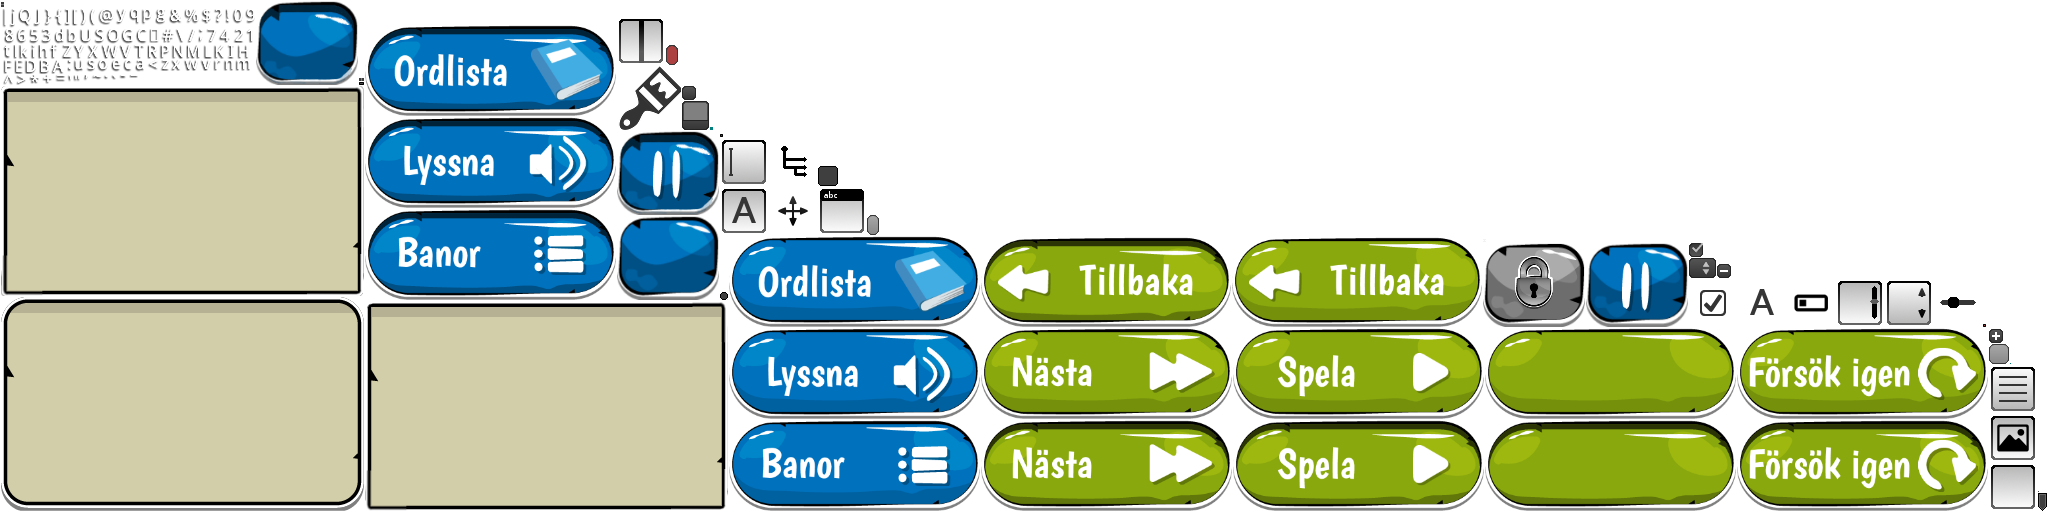
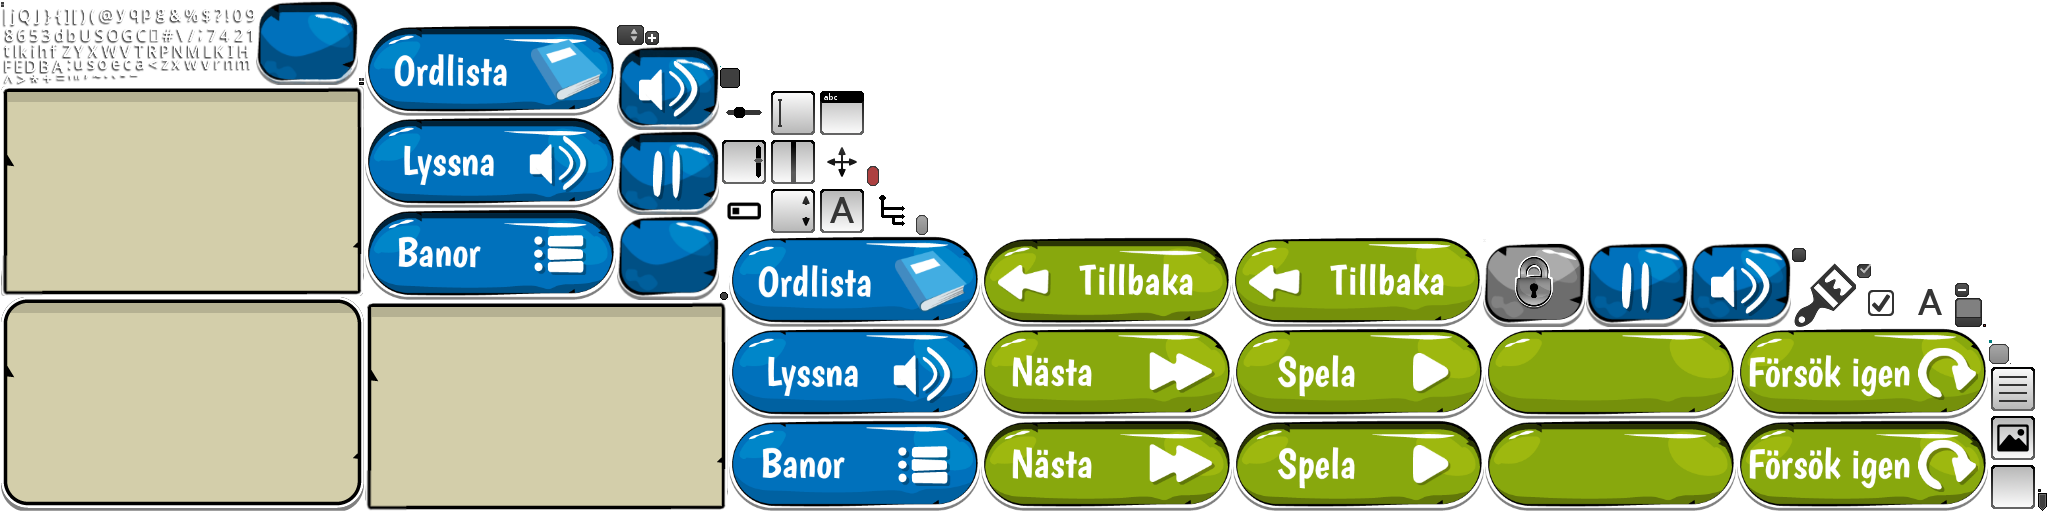
Added new sound buttons to quiz

Changed region(s): [[0.2812, 0.0312, 0.4688, 0.4688], [0.8125, 0.4688, 0.9688, 0.6562]]

diff --git a/core/src/com/teamturtle/infinityrun/stages/QuizStage.java b/core/src/com/teamturtle/infinityrun/stages/QuizStage.java
@@ -4,6 +4,7 @@ import com.badlogic.gdx.Gdx;
 import com.badlogic.gdx.scenes.scene2d.Actor;
 import com.badlogic.gdx.scenes.scene2d.Stage;
 import com.badlogic.gdx.scenes.scene2d.ui.Image;
+import com.badlogic.gdx.scenes.scene2d.ui.ImageButton;
 import com.badlogic.gdx.scenes.scene2d.ui.Label;
 import com.badlogic.gdx.scenes.scene2d.ui.Skin;
 import com.badlogic.gdx.scenes.scene2d.ui.Table;
@@ -91,7 +92,7 @@ public class QuizStage extends Stage {
         while (guesses.size() > 0) {
             int index = random.nextInt((guesses.size() - 1) + 1);
 
-            TextButton button = new TextButton(guesses.get(index).getText() + "?", skin);
+            TextButton button = new TextButton(guesses.get(index).getText() + "?", skin, "text_button");
             final Word word = guesses.get(index);
             button.pad(TEXT_BUTTON_PADDING);
             button.addListener(new ChangeListener() {
@@ -129,6 +130,10 @@ public class QuizStage extends Stage {
         buttonTable = new Table();
         for (TextButton button : guessButtons) {
             buttonTable.add(button).padRight(ROW_PADDING / 2).padLeft(ROW_PADDING / 2);
+        }
+        buttonTable.row();
+        for(int i = 0; i < guessButtons.size(); i++) {
+            buttonTable.add(new ImageButton(skin, "sound_button"));
         }
         buttonTable.padTop(ROW_PADDING);
         parentTable.add(buttonTable).bottom();
